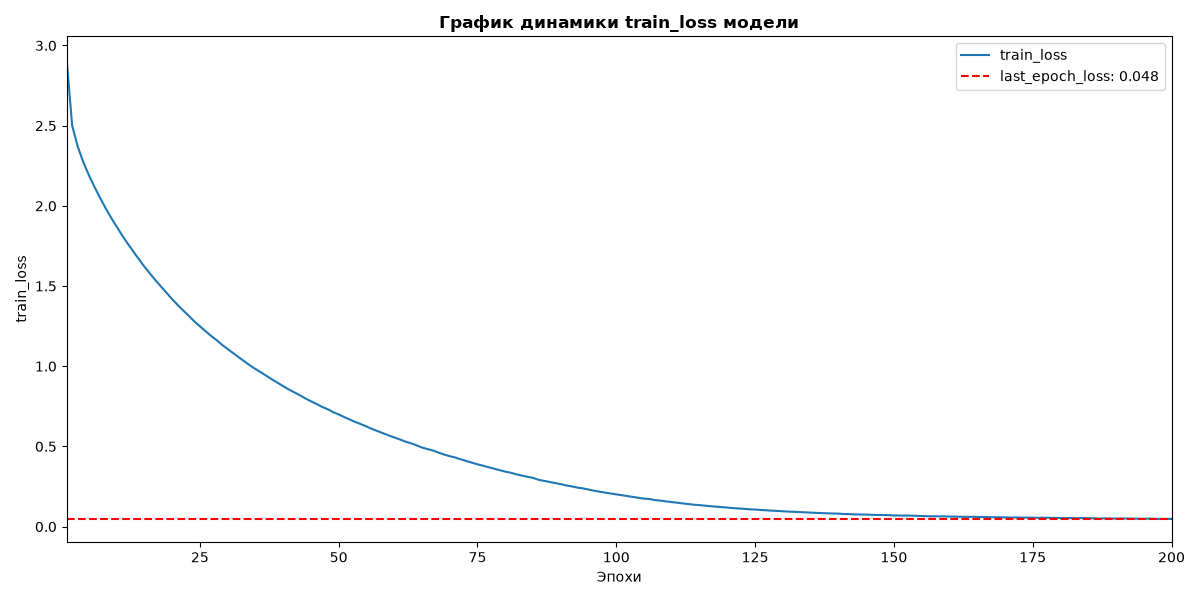
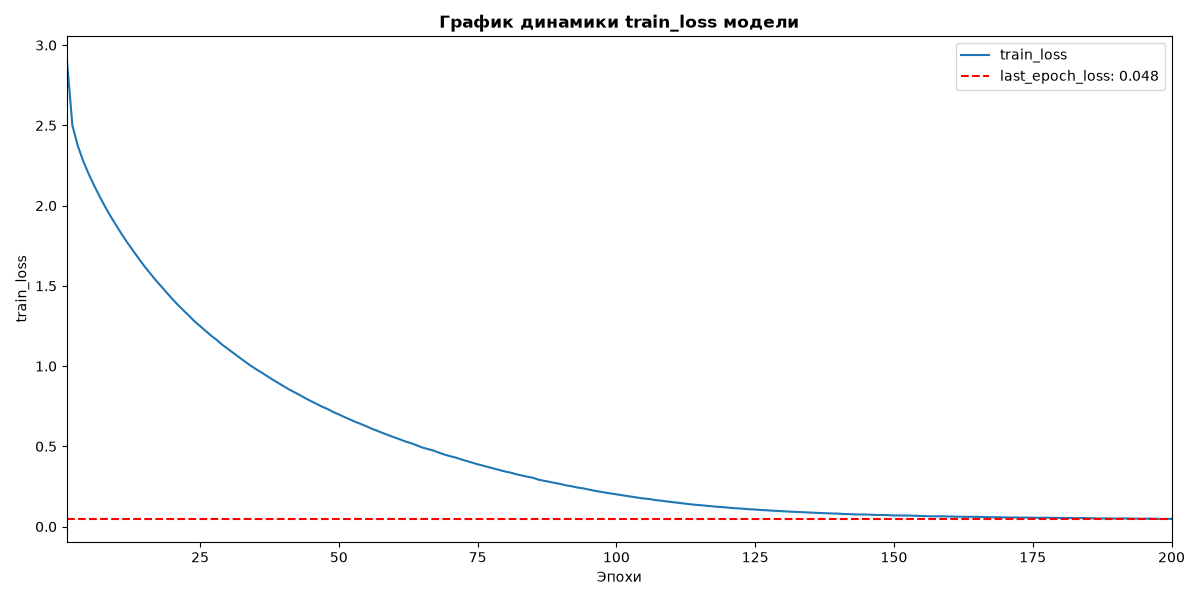
Добавлен базовый токенизатор (#4)
* Добавлен токенизатор

* Добавлен базовый токенизатор

---------

diff --git a/src/little_lm/model/tokenizer_model.py b/src/little_lm/model/tokenizer_model.py
@@ -1,0 +1,221 @@
+import re
+import textwrap
+from pathlib import Path
+
+import torch
+from torch.utils.data import DataLoader, TensorDataset
+from tqdm import tqdm
+
+from little_lm.core.constant import MODELS_DIR
+from little_lm.core.model_types import PreparedData
+from little_lm.core.schema import BaseModelConfig
+from little_lm.model.base_model_v2 import BaseModelV2, Net
+from little_lm.tokenizers.simple_tokenizer_v1 import SimpleTokenizerV1
+
+class TokenizerModel(BaseModelV2):
+
+    def __init__(
+        self, 
+        model_name: str, 
+        config: BaseModelConfig,
+    ) -> None:
+        self.model_name = model_name
+        
+        self.data_path = config.data_path
+        self.context_size = config.context_size
+        self.hidden_dim = config.hidden_dim
+        self.learning_rate = config.learning_rate
+        self.batch_size = config.batch_size
+        self.num_epochs = config.num_epochs
+        self.lenght_answer = config.lenght_answer
+        self.temperature = config.temperature
+        self.random_state = config.random_state
+        if config.device is None:
+            self.device = "mps" if torch.backends.mps.is_available() else "cpu"
+        else:
+            self.device = config.device
+
+        self.tokenizer = None
+        self.net = None
+        self.optimizer = None
+        self.loss = None
+        self.dataloader = None
+        self.trained = False
+        self.vocab = None
+        self.vocab_size = None
+        self.data = None
+
+        # Фиксирование рандома
+        torch.manual_seed(self.random_state)
+        torch.use_deterministic_algorithms(True)
+
+
+    def _prepare_data(
+        self,
+        data_path: str | None = None,
+    ) -> None:
+        """Подготовка данных к обучению модели"""
+        if data_path is None:
+            data_path = self.data_path
+
+        # Загрузка данных
+        with open(data_path, "r", encoding="utf-8") as f:
+            text = f.read()
+
+        # Токены
+        preprocessed = re.split(r'(--|[,.:;?_!"()«»\'—\-\s])', text)
+        preprocessed = [item.strip() for item in preprocessed if item.strip()]
+        all_tokens = sorted(set(preprocessed))
+
+        self.vocab = {token:integer for integer, token in enumerate(all_tokens)}
+        self.tokenizer = SimpleTokenizerV1(self.vocab)
+        self.vocab_size = len(self.tokenizer.char_to_id)
+
+        # Формирование обучающей выборки
+        ids = torch.tensor(self.tokenizer.encode(text), device=self.device)
+
+        x_train = torch.stack(
+            [ids[i:i - self.context_size] for i in range(self.context_size)], 
+            dim=1
+        )
+        y_train = ids[self.context_size:]
+
+        self.data = PreparedData(
+            x_train=x_train.to(self.device), 
+            y_train=y_train.to(self.device),
+        )
+        return None
+
+
+    def _init_models(self) -> None:
+        """Инициализация модели"""
+        self.net = Net(
+            self.vocab_size, 
+            self.hidden_dim, 
+            self.context_size,
+        ).to(self.device)
+        self.net.apply(self._init_weights)
+
+        self.optimizer = torch.optim.SGD(
+            self.net.parameters(), 
+            lr=self.learning_rate,
+            weight_decay=1e-6
+        )
+        self.loss = torch.nn.CrossEntropyLoss(ignore_index=self.tokenizer.pad_token_id)
+        return None
+
+
+    def save_weights(
+        self,
+        filepath: Path,
+    ) -> None:
+        """Сохранение весов и метаданных модели на диск"""
+        filepath.parent.mkdir(parents=True, exist_ok=True)
+        torch.save(
+            {
+                "model_state_dict": self.net.state_dict(),
+                "vocab": self.vocab,
+            },
+            filepath,
+        )
+        print(f"Веса успешно сохранены в {filepath}")
+        return None
+
+
+    def load_weights(
+        self,
+        filepath: Path,
+    ) -> None:
+        """Загрузка сохраненных весов и токенов"""
+        checkpoint = torch.load(
+            filepath,
+            map_location=self.device,
+            weights_only=True
+        )
+        self.vocab = checkpoint["vocab"]
+        self.tokenizer = SimpleTokenizerV1(self.vocab)
+        self.vocab_size = len(self.tokenizer.char_to_id)
+
+        self._init_models()
+        self.net.load_state_dict(checkpoint["model_state_dict"])
+        self.net.eval()
+        self.trained = True
+        print(f"Веса успешно загружены из {filepath}")
+        return None
+
+
+    def train(self) -> None:
+        print("Запуск обучения модели...")
+
+        self._prepare_data()
+        self._init_models()
+
+        report_loss = []
+        dataset = TensorDataset(self.data.x_train, self.data.y_train)
+        self.dataloader = DataLoader(
+            dataset, 
+            batch_size=self.batch_size,
+            shuffle=True
+        )
+        for epoch in tqdm(range(1, self.num_epochs + 1)):
+            self.net.train()
+            epochs_loss = 0.0
+            num_batches = 0
+            for x_batch, y_batch in self.dataloader:
+                self.optimizer.zero_grad()
+                preds = self.net(x_batch)
+                loss_value = self.loss(preds.view(-1, self.vocab_size), y_batch.view(-1))
+                loss_value.backward()
+                self.optimizer.step()
+
+                num_batches += 1
+                epochs_loss += loss_value.item()
+
+            # Блок для оценки
+            # with torch.no_grad():
+
+            report_loss.append(epochs_loss / num_batches)
+
+        self.trained = True
+        print(f"Выполнилось {epoch:02d} эпох | Средняя ошибка последней эпохи: {report_loss[-1]:.4f}")
+        print("Обучение модели закончено")
+        self.save_weights(filepath=MODELS_DIR / self.model_name / f"{self.model_name}.pt")
+        self.get_loss_plot(report_loss)
+        return None
+    
+
+    def generate(
+        self,
+        prompt: str,
+    ) -> str:
+        """Генерация ответа языковой модели"""
+        if not self.trained:
+            raise RuntimeError("Модель еще не обучена")
+
+        current_ids = self.tokenizer.encode(prompt)[-self.context_size:]
+        len_prompt = len(current_ids)
+        if len_prompt < self.context_size:
+            pad_needs = self.context_size - len_prompt
+            current_ids = [self.tokenizer.pad_token_id] * pad_needs + current_ids
+
+        for _ in range(self.lenght_answer):
+            x_in = torch.tensor([current_ids[-self.context_size:]], device=self.device)
+            preds = self.net(x_in)
+
+            # Применение температуры к вероятностям
+            temp = max(self.temperature, 1e-4)
+            probs = torch.softmax(preds[0] / temp, dim=-1)
+
+            # Семплируем следующий символ
+            next_id = torch.multinomial(
+                probs, 
+                num_samples=1, 
+                replacement=True,
+            ).item()
+
+            current_ids.append(next_id)
+        
+        generated = self.tokenizer.decode(current_ids[len_prompt:])
+        generated = textwrap.fill(generated, width=90)
+        print(generated)
+        return generated

diff --git a/tests/test_tokenizer_model.py b/tests/test_tokenizer_model.py
@@ -1,0 +1,82 @@
+import torch
+import yaml
+from little_lm.core.constant import MODELS_DIR
+from little_lm.core.model_types import PreparedData
+from little_lm.model.base_model_v2 import Net
+from little_lm.core.models_init import get_model_n_config_class
+
+MODEL_NAME = 'test_tokenizer_model'
+MODEL, MODEL_CONFIG = get_model_n_config_class(MODEL_NAME)
+CONFIG_PATH = MODELS_DIR / MODEL_NAME / "config.yaml"
+WEIGHTS_PATH = MODELS_DIR / MODEL_NAME / f"{MODEL_NAME}.pt"
+PLOT_PATH = MODELS_DIR / MODEL_NAME / "train_loss_plot.png"
+with open(CONFIG_PATH) as f:
+    config = yaml.safe_load(f)
+MODEL_PARAMS = MODEL_CONFIG(**config["model"])
+
+class TestTokenizerModel:
+
+    def test_prepare_data(self):
+        """Базовая проверка корректности работы prepare_data"""
+        model = MODEL(MODEL_NAME, MODEL_PARAMS)
+        model._prepare_data()
+
+        assert isinstance(model.data, PreparedData)
+        assert isinstance(model.tokenizer.char_to_id, dict)
+        assert isinstance(model.tokenizer.id_to_char, dict)
+        assert model.data.x_train.ndim == 2
+        assert model.data.x_train.shape[1] == 3
+        assert model.data.y_train.ndim == 1
+        assert model.data.x_train.shape[0] == model.data.y_train.shape[0]
+        assert torch.allclose(model.data.x_train[1:, 2], model.data.y_train[:-1])
+
+    def test_correct_net(self):
+        """Проверка, что архитектура модели возвращает тензор нужного размера"""
+        model = MODEL(MODEL_NAME, MODEL_PARAMS)
+        model._prepare_data()
+        x_batch = model.data.x_train[:model.batch_size]
+        net = Net(
+            model.vocab_size,
+            model.hidden_dim, 
+            model.context_size,
+        ).to(model.device)
+        output_net = net.forward(x_batch)
+        assert x_batch.shape == (model.batch_size, model.context_size)
+        assert output_net.shape == (model.batch_size, model.vocab_size)
+
+    def test_train_model(self):
+        """Тестирование обучения и сохранения весов"""
+        model = MODEL(MODEL_NAME, MODEL_PARAMS)
+        assert not model.trained
+        
+        model.train()
+        assert model.trained
+        assert WEIGHTS_PATH.is_file()
+
+    def test_load_weights(self):
+        """Тестирование загрузки весов модели"""
+        model = MODEL(MODEL_NAME, MODEL_PARAMS)
+        
+        assert WEIGHTS_PATH.is_file()
+        model.load_weights(WEIGHTS_PATH)
+        assert model.trained
+
+    def test_generate_model(self):
+        """Тестирование генерации текста модели"""
+        model = MODEL(MODEL_NAME, MODEL_PARAMS)
+        model.load_weights(WEIGHTS_PATH)
+
+        test_text = "Мой дядя самых"
+        generated = model.generate(test_text)
+        assert isinstance(generated, str)
+
+        len_encode_test_text = len(model.tokenizer.encode(test_text))
+        len_generated_text = len(model.tokenizer.encode(generated))
+        assert (len_generated_text - len_encode_test_text) == model.lenght_answer
+
+    def tests_clear(self):
+        """Очистка файлов после тестирования"""
+        WEIGHTS_PATH.unlink(missing_ok=True)
+        PLOT_PATH.unlink(missing_ok=True)
+        assert not WEIGHTS_PATH.is_file()
+        assert not PLOT_PATH.is_file()

diff --git a/src/little_lm/tokenizers/simple_tokenizer_v1.py b/src/little_lm/tokenizers/simple_tokenizer_v1.py
@@ -1,0 +1,35 @@
+"""Реализация простого токенайзера по словам и знакам препинания."""
+
+import re
+
+class SimpleTokenizerV1():
+
+    def __init__(self, vocab):
+        self.char_to_id = dict(vocab)
+
+        self.special_tokens = ["<PAD>", "<UNK>"]
+        start_idx = len(self.char_to_id)
+
+        for token in self.special_tokens:
+            if token not in self.char_to_id:
+                self.char_to_id[token] = start_idx
+                start_idx += 1
+
+        self.id_to_char = {i:c for c, i in self.char_to_id.items()}
+        self.pad_token_id = self.char_to_id["<PAD>"]
+        self.unk_token_id = self.char_to_id["<UNK>"]
+
+    def encode(self, text):
+        preprocessed = re.split(r'(--|[,.:;?_!"()«»\'—\-\s])', text)
+        preprocessed = [
+            item.strip() for item in preprocessed if item.strip()
+        ]
+        ids = [self.char_to_id.get(s, self.unk_token_id) for s in preprocessed]
+        return ids
+
+    def decode(self, ids):
+        ids = [id for id in ids if id != self.unk_token_id]
+        text = " ".join([self.id_to_char[i] for i in ids])
+        text = re.sub(r'\s+([,.:;_?!")\'»])', r'\1', text)
+        text = re.sub(r'(["(\'_«])\s+', r'\1', text)
+        return text

diff --git a/src/little_lm/core/models_init.py b/src/little_lm/core/models_init.py
@@ -1,13 +1,16 @@
 from little_lm.model.base_model import BaseModel
 from little_lm.model.base_model_v2 import BaseModelV2
+from little_lm.model.tokenizer_model import TokenizerModel
 from little_lm.core.schema import BaseModelConfig
 
 MODELS = {
     'test_base_model': (BaseModel, BaseModelConfig),
     'test_base_model_v2': (BaseModelV2, BaseModelConfig),
+    'test_tokenizer_model': (TokenizerModel, BaseModelConfig),
     
     'base_model': (BaseModel, BaseModelConfig),
     'base_model_v2': (BaseModelV2, BaseModelConfig),
+    'tokenizer_model': (TokenizerModel, BaseModelConfig),
 }
 
 def get_model_n_config_class(model_name: str):

diff --git a/src/little_lm/core/constant.py b/src/little_lm/core/constant.py
@@ -1,11 +1,12 @@
 from pathlib import Path
 
 ACTUAL_MODEL = 'base_model_v2'
-SLASH = '=' * 65
+SLASH = '=' * 100
 MODELS_DIR = Path(__file__).resolve().parents[3] / "models"
 PROMPTS = (
     "Мой дядя самых",
     "Учил его всему шутя",
     "Как признаться в любви девушке?",
-    "Какая сейчас погода в Санкт-Петербурге?"
+    "Какая сейчас погода в Санкт-Петербурге?",
+    "Мой день совсем не очень... А как твой день?",
 )
